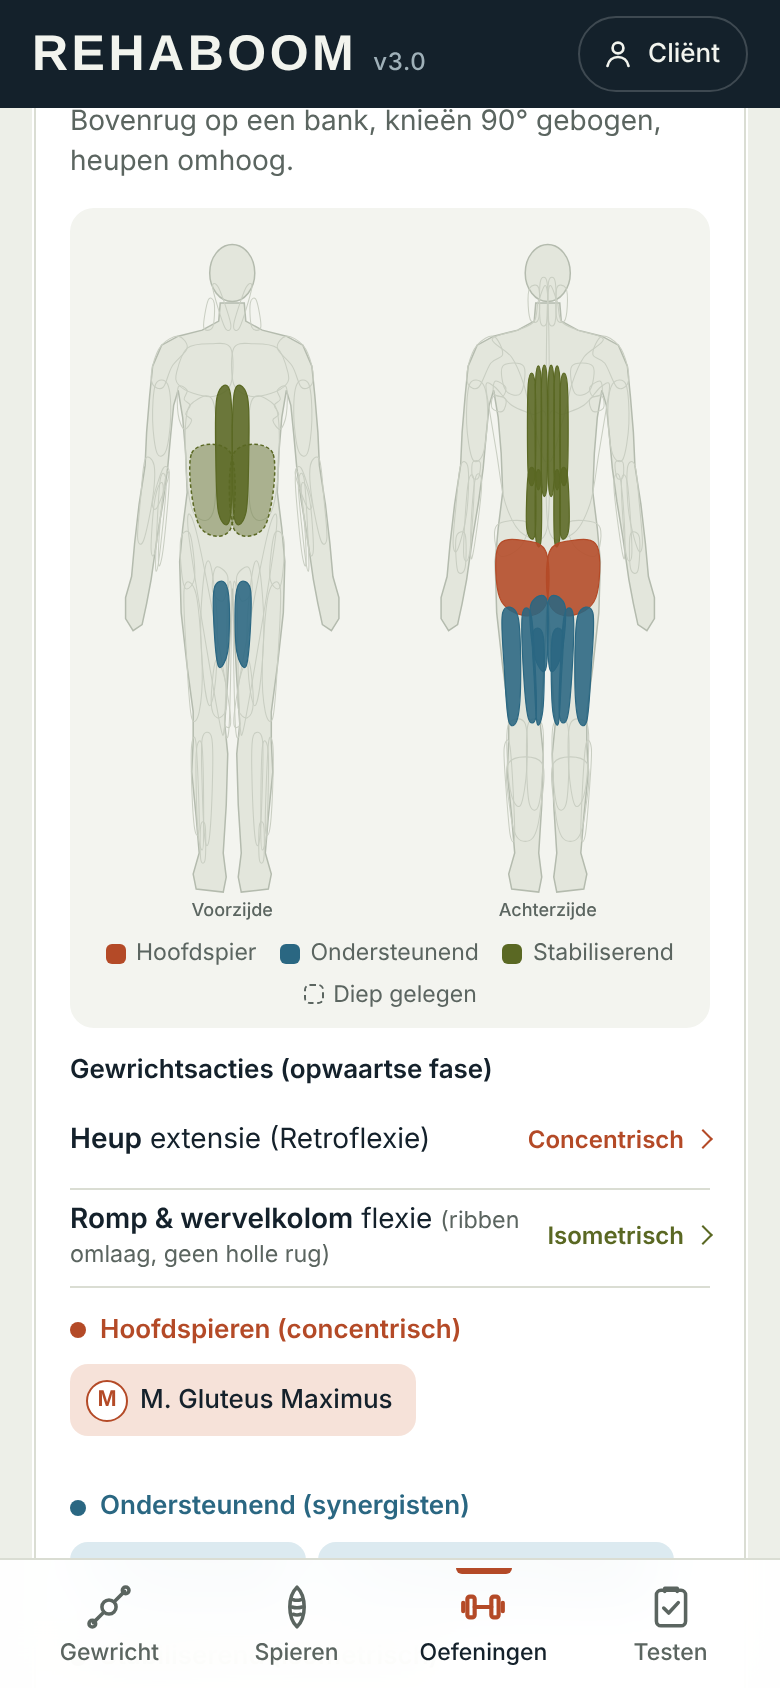
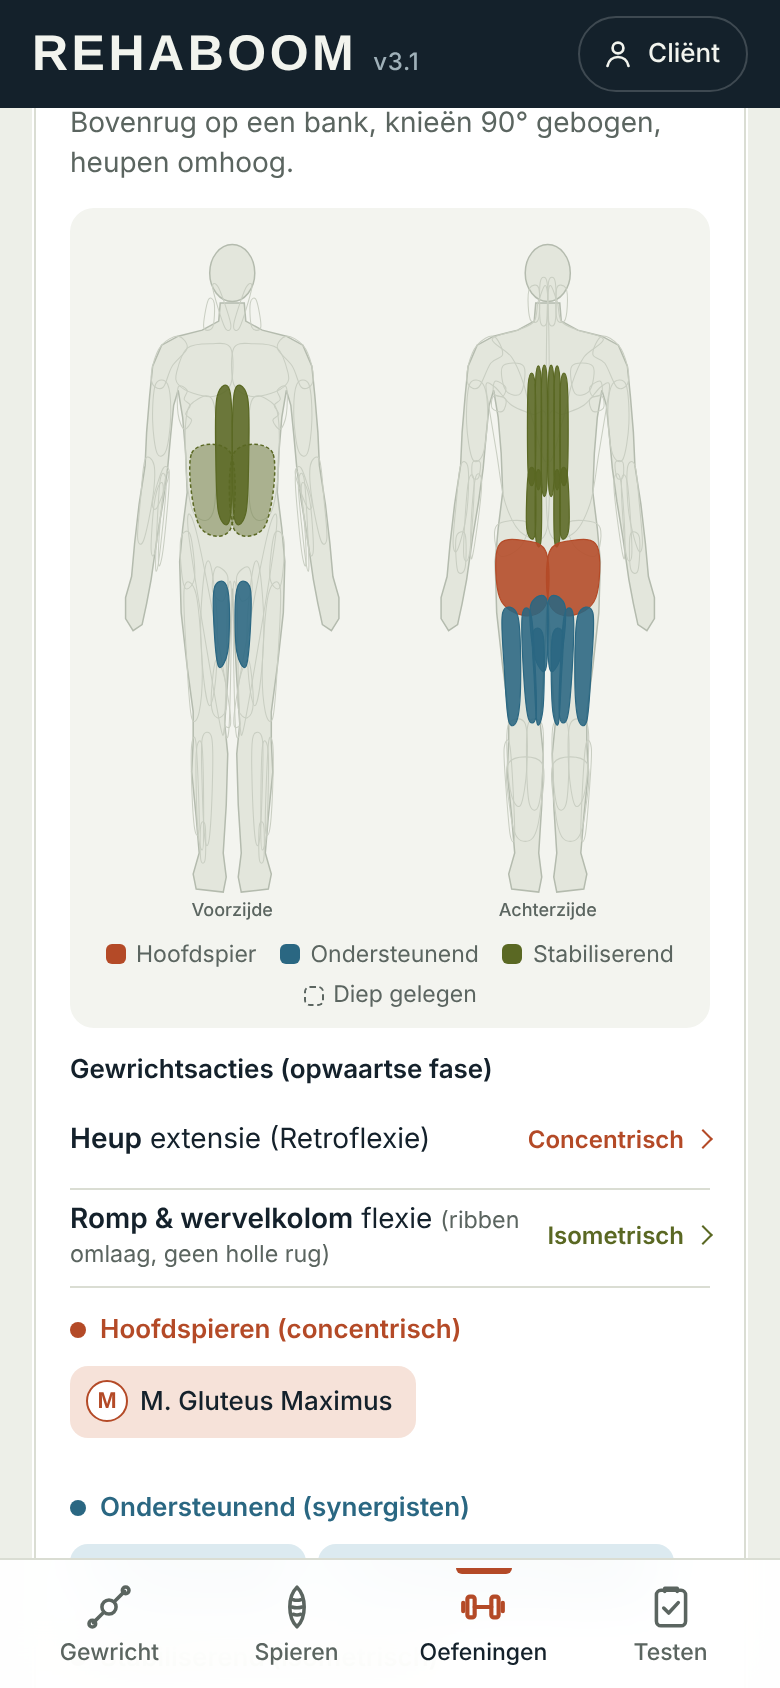
REHABOOM v3.1: eigen anatomische icoontjes
- Icoon per spiergroep en per oefeningcategorie, gegenereerd uit de eigen lichaamskaart
- Automatische keuze voor-/achterzijde en uitsnede op de ingekleurde spieren
- Lange groepsnamen breken netjes af

Claude-Session: https://claude.ai/code/session_01V7C9W3myLKfyG6ngh8z1uL

diff --git a/index.html b/index.html
@@ -244,6 +244,21 @@ button:focus-visible{outline:2px solid var(--coral);outline-offset:2px}
 .zv-cr{font-size:11px;color:var(--muted);text-align:center;margin-top:8px}
 @media (prefers-reduced-motion:reduce){.zv-in{transition:none}}
 @media (max-width:420px){.joints{grid-template-columns:repeat(2,minmax(0,1fr))}.ctrl{grid-template-columns:1fr}.cats{grid-template-columns:repeat(2,minmax(0,1fr))}}
+/* spiergroep-icoontjes */
+.cat{flex-direction:row!important;align-items:center;justify-content:flex-start!important;gap:10px}
+.cat>span{display:flex;flex-direction:column;min-width:0}
+.cat b{font-size:18px!important;hyphens:auto;-webkit-hyphens:auto;overflow-wrap:anywhere;line-height:1.02}
+.bmi{width:48px;height:48px}
+.bmi{flex:none;width:44px;height:44px;border-radius:10px;background:var(--lightbox)}
+.bmi .ic-b{fill:#DCE0D5;stroke:#B4BBAE;stroke-width:1.2;vector-effect:non-scaling-stroke}
+.bmi .ic-o{fill:none;stroke:#C5CABD;stroke-width:.7;vector-effect:non-scaling-stroke}
+.bmi .ic-m{fill:#B44A27;stroke:#8F3A1E;stroke-width:.6;vector-effect:non-scaling-stroke}
+.cat[aria-pressed="true"] .bmi{background:color-mix(in srgb,var(--surface) 14%,transparent)}
+.cat[aria-pressed="true"] .bmi .ic-b{fill:color-mix(in srgb,var(--surface) 32%,transparent);stroke:color-mix(in srgb,var(--surface) 45%,transparent)}
+.cat[aria-pressed="true"] .bmi .ic-o{stroke:color-mix(in srgb,var(--surface) 30%,transparent)}
+.cat[aria-pressed="true"] .bmi .ic-m{fill:#E0754F;stroke:#E0754F}
+.exlbl{display:flex;align-items:center;gap:10px;font-size:15px!important}
+.exlbl .bmi{width:34px;height:34px;border-radius:9px}
 /* ===== v3 premium =====
    Layout: compacte inktbalk boven, onderbalk voor duimbediening, grote titel per onderdeel;
    één opvallend element: de lichtbak waarin spierafbeeldingen zonder kader op een egale ondergrond staan. */
@@ -385,7 +400,7 @@ details{border:0;box-shadow:0 0 0 1px var(--line) inset;border-radius:var(--r-ca
 
 <header class="top">
   <div class="wrap top-in">
-    <div class="brand"><h1>REHABOOM</h1><span class="ver">v3.0</span></div>
+    <div class="brand"><h1>REHABOOM</h1><span class="ver">v3.1</span></div>
     <button class="cmode" id="cmode" aria-pressed="false" aria-label="Cliëntweergave"><svg viewBox="0 0 24 24" aria-hidden="true"><circle cx="12" cy="8" r="3.6"/><path d="M5 20c.8-3.8 3.6-6 7-6s6.2 2.2 7 6"/></svg><span>Cliënt</span></button>
   </div>
 </header>
@@ -417,6 +432,7 @@ details{border:0;box-shadow:0 0 0 1px var(--line) inset;border-radius:var(--r-ca
     <details>
       <summary>Versiegeschiedenis</summary>
       <ul>
+        <li>v3.1: eigen anatomische icoontjes per spiergroep en per oefeningcategorie, getekend uit de lichaamskaart.</li>
         <li>v3.0: nieuw ontwerp: onderbalk met iconen voor duimbediening, grote paginatitels, gewrichtstegels met silhouet, lichtbak voor spierafbeeldingen en rustigere typografie.</li>
         <li>v2.8: realistische 3D-renders (Anatomography/BodyParts3D) bij 54 van de 91 spieren; de render is nu het hoofdbeeld van de spierkaart.</li>
         <li>v2.8: strook met afbeeldingen van de agonisten op elke bewegingskaart en van de hoofdspieren bij elke oefening.</li>
@@ -502,7 +518,7 @@ details{border:0;box-shadow:0 0 0 1px var(--line) inset;border-radius:var(--r-ca
 <div id="sheetRoot"></div>
 
 <script src="data.js?v=28"></script>
-<script src="bodymap.js?v=27"></script>
+<script src="bodymap.js?v=31"></script>
 <script>
 const M='M',B='B',P='P';
 const J=[
@@ -813,6 +829,17 @@ function goMove(id){
 
 /* ---------- Op spier ---------- */
 const CATS=Object.keys(GROUPS);
+/* Eigen icoon per spiergroep: kernspieren van de groep op de lichaamskaart */
+const CAT_IC={'Nek':['M. Sternocleidomastoideus','Mm. Scaleni'],'Borst':['M. Pectoralis Major','M. Serratus Anterior'],
+ 'Rug':['M. Trapezius','M. Latissimus Dorsi','M. Erector Spinae'],'Buik & romp':['M. Rectus Abdominis','M. Obliquus Externus Abdominis'],
+ 'Armen':['M. Deltoideus','M. Biceps Brachii','M. Brachioradialis','M. Flexor Carpi Radialis','M. Palmaris Longus','M. Flexor Carpi Ulnaris'],
+ 'Heup':['M. Gluteus Maximus','M. Gluteus Medius'],'Benen':['M. Rectus Femoris','M. Vastus Lateralis / Medialis / Intermedius','Adductoren','M. Sartorius'],
+ 'Onderbenen':['M. Gastrocnemius','M. Soleus']};
+const CAT_VIEW={'Armen':'F','Onderbenen':'B','Heup':'B','Rug':'B'};
+const _ic={};
+function catIcon(c){return _ic[c]||(_ic[c]=bmIcon(CAT_IC[c]||GROUPS[c].flatMap(g=>g.muscles),{view:CAT_VIEW[c]}));}
+const EX_IC={'Onderlichaam':[['M. Gluteus Maximus','M. Vastus Lateralis / Medialis / Intermedius','M. Rectus Femoris'],'F'],
+ 'Bovenlichaam':[['M. Pectoralis Major','M. Deltoideus','M. Biceps Brachii'],'F'],'Romp':[['M. Rectus Abdominis','M. Obliquus Externus Abdominis'],'F']};
 let ci=0,gi=0;
 const norm=s=>s.toLowerCase().normalize('NFD').replace(/[̀-ͯ]/g,'');
 function thumb(k){const d=DETAILS[k];return d&&d.image?`<img class="th" src="${esc(wimg(d.image,96))}" alt="" loading="lazy" onerror="this.outerHTML='<span class=th></span>'">`:'<span class="th"></span>';}
@@ -836,7 +863,7 @@ function renderS(){
     $('mres').innerHTML=`<p class="hits">${hit.length} spier${hit.length===1?'':'en'} gevonden</p>${hit.length?`<div class="mlist">${hit.map(h=>row(h[1],h[2])).join('')}</div>`:''}`;
     return;
   }
-  $('cats').innerHTML=CATS.map((c,i)=>`<button class="cat" aria-pressed="${i===ci}" data-c="${i}"><b>${c}</b><small>${GROUPS[c].reduce((n,g)=>n+g.muscles.length,0)} spieren</small></button>`).join('');
+  $('cats').innerHTML=CATS.map((c,i)=>`<button class="cat" aria-pressed="${i===ci}" data-c="${i}">${catIcon(c)}<span><b>${c}</b><small>${GROUPS[c].reduce((n,g)=>n+g.muscles.length,0)} spieren</small></span></button>`).join('');
   const gs=GROUPS[CATS[ci]];
   $('subs').innerHTML=gs.length>1?`<div class="seg">${gs.map((g,i)=>`<button aria-pressed="${i===gi}" data-g="${i}">${g.label}</button>`).join('')}</div>`:'';
   const g=gs[Math.min(gi,gs.length-1)];
@@ -904,7 +931,7 @@ function exChips(list,cls,title){
 }
 function renderO(){
   const e=EX[ei];
-  $('excats').innerHTML=EXCATS.map(c=>`<div><p class="lbl">${c}</p><div class="exgrid">${EX.map((x,i)=>x.cat!==c?'':`<button class="ex" aria-pressed="${i===ei}" data-e="${i}">${x.n}</button>`).join('')}</div></div>`).join('');
+  $('excats').innerHTML=EXCATS.map(c=>`<div><p class="lbl exlbl">${EX_IC[c]?bmIcon(EX_IC[c][0],{view:EX_IC[c][1]}):''}${c}</p><div class="exgrid">${EX.map((x,i)=>x.cat!==c?'':`<button class="ex" aria-pressed="${i===ei}" data-e="${i}">${x.n}</button>`).join('')}</div></div>`).join('');
   const ms=exMuscles(e),by=r=>ms.filter(x=>x.r===r);
   const acts=e.acts.map(([id,t,note])=>{const [j,m]=moveLabel(id);return `<button class="jump" data-jm="${id}"><span><b>${j}</b> ${m.charAt(0).toLowerCase()+m.slice(1)}${note?` <small style="color:var(--muted)">(${esc(note)})</small>`:''}</span><em class="${t==='c'?'tc':'ti'}">${t==='c'?'Concentrisch':'Isometrisch'}</em></button>`}).join('');
   $('exdetail').innerHTML=`<article class="card" id="exc">

diff --git a/bodymap.js b/bodymap.js
@@ -154,3 +154,25 @@ function bodymap(hl,opt={}){
   const w=views.length*200+(views.length-1)*10;
   return `<svg class="bm${opt.cls?' '+opt.cls:''}" viewBox="0 0 ${w} 464" role="img" aria-label="${opt.label||'Lichaamskaart'}">${views.map((v,i)=>fig(v,i*210)).join('')}</svg>`;
 }
+
+/* Icoon: uitsnede van de lichaamskaart met één groep spieren ingekleurd.
+   Kiest automatisch voor- of achterzijde en snijdt bij op de ingekleurde spieren. */
+function bmIcon(names,opt={}){
+  const ids=[...new Set(names.flatMap(n=>bmShapesFor(n)))].filter(id=>BM[id]&&!BM[id].deep);
+  const use=ids.length?ids:[...new Set(names.flatMap(n=>bmShapesFor(n)))];
+  const f=use.filter(id=>BM[id].v==='F').length,b=use.filter(id=>BM[id].v==='B').length;
+  const v=opt.view||(b>f?'B':'F');
+  const sel=use.filter(id=>BM[id].v===v);
+  let x0=200,y0=460,x1=0,y1=0;
+  for(const id of sel)for(const [x,y] of BM[id].p){x0=Math.min(x0,x);x1=Math.max(x1,x);y0=Math.min(y0,y);y1=Math.max(y1,y);}
+  const limb=x1<84;                         // ledemaat: alleen de linkerkant tonen
+  if(!limb){x0=Math.min(x0,200-x1);x1=Math.max(x1,200-x0);}
+  const pad=opt.pad??Math.max(16,(Math.max(x1-x0,y1-y0))*.28),cx=(x0+x1)/2,cy=(y0+y1)/2;
+  const size=Math.max(x1-x0,y1-y0)+pad*2;
+  const box=[cx-size/2,cy-size/2,size,size].map(n=>n.toFixed(1)).join(' ');
+  const outl=[],hit=[];
+  for(const id of BM_ORDER){if(BM[id].v!==v)continue;
+    const on=sel.includes(id);
+    for(const d of BM_PATH[id]){if(on)hit.push(`<path d="${d}" class="ic-m"/>`);else if(!BM[id].deep)outl.push(`<path d="${d}" class="ic-o"/>`);}}
+  return `<svg class="bmi" viewBox="${box}" aria-hidden="true"><path d="${BM_BODY}" class="ic-b"/><ellipse cx="100" cy="30" rx="15" ry="19" class="ic-b"/>${outl.join('')}${hit.join('')}</svg>`;
+}

diff --git a/sw.js b/sw.js
@@ -1,6 +1,6 @@
-const CACHE='rehaboom-v3-0';
+const CACHE='rehaboom-v3-1';
 const IMG='rehaboom-img';   // spierafbeeldingen: blijft bewaard bij updates
-const CORE=['./','./index.html','./data.js?v=28','./bodymap.js?v=27','./manifest.webmanifest','./icons/icon-192.png','./icons/icon-512.png','./icons/maskable-512.png'];
+const CORE=['./','./index.html','./data.js?v=28','./bodymap.js?v=31','./manifest.webmanifest','./icons/icon-192.png','./icons/icon-512.png','./icons/maskable-512.png'];
 self.addEventListener('install',e=>{e.waitUntil(caches.open(CACHE).then(c=>c.addAll(CORE)).then(()=>self.skipWaiting()));});
 self.addEventListener('activate',e=>{e.waitUntil(caches.keys().then(ks=>Promise.all(ks.filter(k=>k!==CACHE&&k!==IMG).map(k=>caches.delete(k)))).then(()=>self.clients.claim()));});
 self.addEventListener('fetch',e=>{
